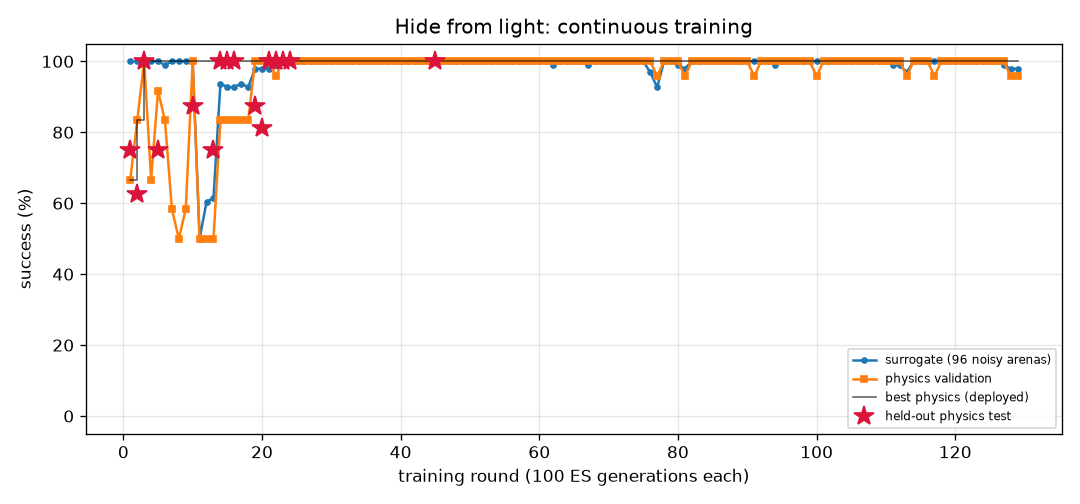
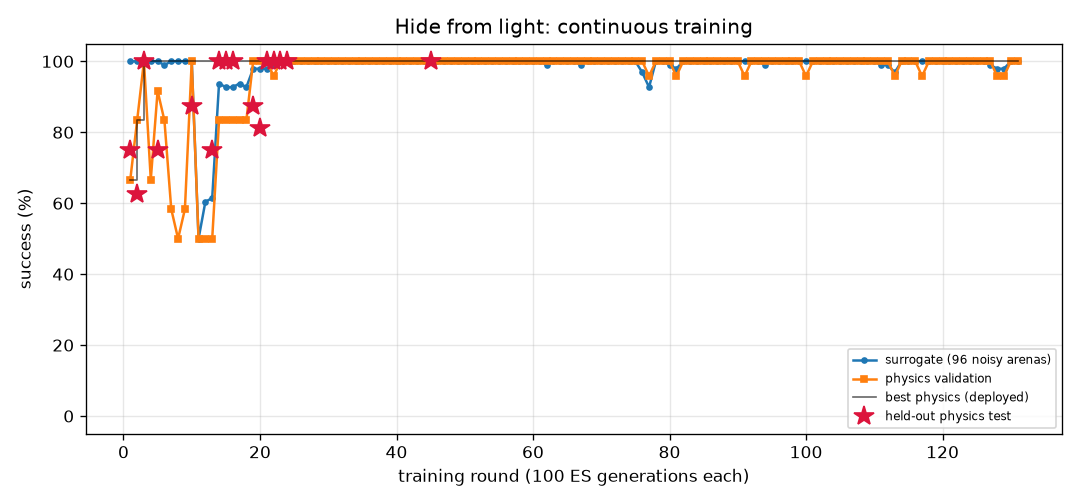
FlyLab: continuous training progress
- walk_forward: optimal, physics val 100% of 24, round 63
- turn: optimal, physics val 100% of 24, round 234
- goto: optimal, physics val 100% of 24, round 61
- odor_seek: optimal, physics val 100% of 24, round 77
- odor_avoid: optimal, physics val 100% of 24, round 336
- light_seek: optimal, physics val 100% of 24, round 241
- light_avoid: optimal, physics val 100% of 24, round 131

diff --git a/projects/09_flylab/training/odor_avoid/REPORT.md b/projects/09_flylab/training/odor_avoid/REPORT.md
@@ -1,14 +1,14 @@
 # Escape a bad smell (`odor_avoid`) — training report
 
-*Auto-generated by `train_brains.py`, last updated 2026-10-07T20:49:22.*
+*Auto-generated by `train_brains.py`, last updated 2026-10-08T08:55:30.*
 
 ![curve](curve.png)
 
 | | |
 |---|---|
-| rounds | 334 |
-| ES generations | 33400 |
-| physics runs | 5226 |
+| rounds | 336 |
+| ES generations | 33600 |
+| physics runs | 5274 |
 | status | **optimal** |
 | best brain | round 288: physics validation **100%** on 24 arenas, surrogate 98% |
 | held-out physics test | **100%** on 32 unseen arenas (95% CI 89%-100%) (errors: [61.2, 57.1, 61.4, 61.0, 13.5, 61.1, 61.1, 60.7, 60.0, 56.9, 60.8, 56.8, 60.8, 60.0, 58.7, 59.7, 60.7, 54.4, 60.9, 54.7, 61.1, 60.5, 57.7, 58.7, 59.8, 55.9, 55.7, 45.8, 55.9, 58.2, 59.2, 28.5]) |
@@ -17,8 +17,6 @@ Physics error per arena: mm gained away from source (> 6 without first approachi
 
 | round | level | gens | sigma | surrogate | physics val | val errors | test | note |
 |---:|---:|---:|---:|---:|---:|---|---:|---|
-| 295 | 3 | 29500 | 0.027 | 95% | 100% | [62.0, 60.2, 56.3, 59.3, 55.5, 59.1, 62.0, 57.4, 61.6, 42.9, 12.2, 61.1, 52.3, 55.5, 46.3, 60.4, 61.0, 48.1, 51.6, 59.9, 60.7, 45.5, 57.0, 60.3] |  |  |
-| 296 | 3 | 29600 | 0.027 | 98% | 92% | [60.7, 59.0, 56.9, 58.8, 61.5, 60.5, 60.9, 41.2, 61.1, 31.8, 61.0, 60.7, 50.2, 57.3, 44.6, 60.5, 60.8, 58.8, 54.1, 58.9, 60.6, 60.8, 58.9, 41.0] |  | restart from best |
 | 297 | 3 | 29700 | 0.025 | 96% | 100% | [62.3, 58.6, 55.8, 60.8, 61.7, 61.9, 60.6, 57.4, 61.1, 61.7, 61.5, 62.0, 53.0, 55.5, 40.8, 60.7, 62.2, 61.6, 54.8, 57.1, 61.9, 61.7, 59.4, 60.5] |  |  |
 | 298 | 3 | 29800 | 0.026 | 97% | 96% | [62.7, 58.8, 58.2, 57.9, 61.1, 62.0, 60.8, 27.5, 60.5, 57.7, 60.9, 60.3, 53.4, 58.1, 37.1, 60.1, 60.2, 60.9, 54.1, 55.0, 59.7, 60.1, 58.3, 46.1] |  |  |
 | 299 | 3 | 29900 | 0.026 | 97% | 100% | [62.8, 58.6, 58.3, 57.7, 60.9, 61.9, 59.8, 49.4, 60.0, 51.0, 60.9, 60.8, 52.6, 57.4, 42.5, 61.3, 59.8, 60.7, 53.2, 57.1, 60.2, 55.2, 58.1, 51.9] |  |  |
@@ -57,3 +55,5 @@ Physics error per arena: mm gained away from source (> 6 without first approachi
 | 332 | 3 | 33200 | 0.025 | 97% | 96% | [60.1, 59.4, 56.0, 58.7, 60.7, 49.9, 61.0, 3.4, 59.3, 13.0, 59.7, 61.3, 54.3, 55.6, 47.6, 60.7, 61.1, 27.0, 54.5, 59.0, 61.0, 21.8, 58.6, 12.0] |  |  |
 | 333 | 3 | 33300 | 0.026 | 98% | 96% | [59.1, 56.3, 55.3, 52.1, 35.5, 45.6, 57.3, 23.9, 57.7, 23.3, 3.5, 59.2, 48.0, 54.0, 28.8, 39.1, 59.3, 42.1, 48.9, 55.9, 59.1, 31.9, 56.1, 55.5] |  |  |
 | 334 | 3 | 33400 | 0.025 | 99% | 100% | [60.9, 60.3, 56.4, 59.9, 61.8, 60.1, 61.6, 41.4, 61.2, 46.9, 60.2, 61.3, 53.6, 56.3, 47.8, 61.4, 61.7, 60.9, 54.7, 59.6, 61.8, 60.7, 59.2, 59.0] |  |  |
+| 335 | 3 | 33500 | 0.025 | 96% | 100% | [60.3, 58.3, 55.8, 58.4, 61.2, 59.9, 61.6, 25.8, 61.2, 45.0, 34.8, 60.8, 49.6, 55.3, 17.2, 60.8, 61.3, 58.2, 53.2, 59.2, 61.2, 58.7, 60.0, 49.5] |  | restart from best |
+| 336 | 3 | 33600 | 0.025 | 94% | 92% | [61.3, 57.4, 56.1, 59.1, 57.6, 60.5, 61.7, 59.6, 61.7, 59.5, 36.1, 61.2, 38.0, 53.1, 19.3, 60.8, 60.8, 58.4, 49.8, 59.9, 61.0, 60.6, 59.5, 60.8] |  |  |

diff --git a/projects/09_flylab/training/light_avoid/REPORT.md b/projects/09_flylab/training/light_avoid/REPORT.md
@@ -1,14 +1,14 @@
 # Hide from light (`light_avoid`) — training report
 
-*Auto-generated by `train_brains.py`, last updated 2026-10-07T21:49:26.*
+*Auto-generated by `train_brains.py`, last updated 2026-10-08T09:08:33.*
 
 ![curve](curve.png)
 
 | | |
 |---|---|
-| rounds | 129 |
-| ES generations | 12900 |
-| physics runs | 3336 |
+| rounds | 131 |
+| ES generations | 13100 |
+| physics runs | 3384 |
 | status | **optimal** |
 | best brain | round 45: physics validation **100%** on 24 arenas, surrogate 100% |
 | held-out physics test | **100%** on 32 unseen arenas (95% CI 89%-100%) (errors: [14.4, 28.9, 31.6, 32.2, 31.9, 13.9, 14.5, 34.1, 33.7, 13.3, 14.0, 31.3, 31.1, 13.1, 32.4, 33.8, 32.9, 32.2, 31.7, 32.0, 29.0, 12.3, 31.9, 33.2, 14.2, 13.7, 33.6, 32.5, 33.2, 13.2, 28.1, 33.7]) |
@@ -17,8 +17,6 @@ Physics error per arena: mm gained away from source (> 6 without first approachi
 
 | round | level | gens | sigma | surrogate | physics val | val errors | test | note |
 |---:|---:|---:|---:|---:|---:|---|---:|---|
-| 90 | 3 | 9000 | 0.024 | 100% | 100% | [42.1, 43.3, 43.4, 41.7, 39.6, 41.5, 43.2, 14.5, 39.6, 13.2, 42.9, 39.3, 14.4, 44.0, 43.4, 42.0, 14.2, 40.8, 43.1, 14.4, 43.0, 43.0, 42.9, 38.2] |  |  |
-| 91 | 3 | 9100 | 0.024 | 100% | 96% | [48.8, 48.7, 49.2, 48.8, 43.7, 48.7, 49.6, 14.5, 37.0, 13.5, 47.3, 43.7, 14.4, 44.9, 49.1, 48.0, 14.2, 45.9, 48.3, 14.4, 48.7, 47.9, 49.6, 42.2] |  |  |
 | 92 | 3 | 9200 | 0.024 | 100% | 100% | [42.9, 43.2, 43.6, 43.2, 38.5, 42.4, 43.8, 14.5, 39.7, 13.5, 43.4, 37.9, 14.4, 41.9, 43.4, 43.6, 14.2, 39.2, 43.1, 14.4, 44.1, 43.6, 43.0, 37.0] |  |  |
 | 93 | 3 | 9300 | 0.024 | 100% | 100% | [45.5, 46.6, 46.8, 45.6, 43.8, 45.3, 46.6, 14.5, 39.1, 13.2, 44.6, 42.3, 14.4, 45.4, 46.7, 45.0, 14.2, 44.1, 46.1, 14.4, 45.0, 45.7, 46.8, 42.4] |  | restart from best |
 | 94 | 3 | 9400 | 0.024 | 99% | 100% | [37.1, 37.9, 37.6, 38.9, 40.4, 36.4, 35.8, 14.5, 11.3, 13.5, 39.0, 40.4, 14.4, 39.0, 37.6, 38.2, 14.2, 40.2, 38.1, 14.4, 35.8, 39.5, 35.4, 40.5] |  |  |
@@ -57,3 +55,5 @@ Physics error per arena: mm gained away from source (> 6 without first approachi
 | 127 | 3 | 12700 | 0.024 | 99% | 100% | [34.5, 36.3, 36.4, 35.9, 31.3, 35.3, 37.1, 14.5, 13.0, 13.4, 10.1, 31.0, 14.4, 27.8, 36.3, 33.8, 14.2, 32.4, 35.7, 14.4, 31.5, 11.1, 35.9, 29.2] |  |  |
 | 128 | 3 | 12800 | 0.025 | 98% | 96% | [43.0, 43.8, 43.6, 42.6, 42.2, 42.5, 42.7, 14.5, 13.0, 13.4, 10.2, 42.0, 14.4, 7.9, 43.7, 42.7, 14.2, 42.8, 44.1, 14.4, 43.8, 11.3, 42.3, 41.2] |  |  |
 | 129 | 3 | 12900 | 0.025 | 98% | 96% | [39.7, 42.8, 42.9, 39.1, 39.0, 41.9, 42.9, 14.5, 13.0, 13.4, 10.2, 38.7, 14.4, 7.9, 43.0, 40.3, 14.2, 40.2, 42.8, 14.4, 40.6, 11.3, 42.2, 37.6] |  | restart from best |
+| 130 | 3 | 13000 | 0.024 | 100% | 100% | [45.4, 46.5, 45.8, 46.2, 49.6, 45.9, 43.8, 14.5, 43.7, 13.3, 48.7, 49.7, 14.4, 48.7, 46.2, 45.4, 14.2, 49.5, 46.9, 14.4, 43.1, 49.3, 44.8, 49.5] |  |  |
+| 131 | 3 | 13100 | 0.024 | 100% | 100% | [44.0, 45.0, 45.6, 44.5, 42.1, 44.4, 46.4, 14.5, 33.5, 13.3, 42.4, 41.6, 14.3, 40.9, 45.5, 43.7, 14.2, 42.4, 45.5, 14.4, 40.2, 42.8, 45.3, 40.8] |  |  |

diff --git a/projects/09_flylab/training/TRAINING.md b/projects/09_flylab/training/TRAINING.md
@@ -1,6 +1,6 @@
 # FlyLab brains — continuous training log
 
-*Auto-generated by `train_brains.py`, last updated 2026-10-08T08:34:22.*
+*Auto-generated by `train_brains.py`, last updated 2026-10-08T09:08:33.*
 
 Every skill has its own brain and its own training process: surrogate ES rounds, physics validation in MuJoCo, keep-the-best selection, and a held-out physics test that is never used for selection. See each skill's report for its full round-by-round history. Mastery is progressive: passing a level (100% physics validation, >=95% surrogate) doubles the validation and test arena sets; a brain is **optimal** once it holds up at level 3 (>=95% of 24 validation arenas) AND scores >=90% on the 32 held-out test arenas. Test columns show 95% Wilson confidence intervals.
 
@@ -10,6 +10,6 @@ Every skill has its own brain and its own training process: surrogate ES rounds,
 | [Turn in place](turn/REPORT.md) | 234 | 23400 | 5862 | 100% | 100% of 24 | 97% of 32 (CI 84-99%) | **optimal** |
 | [Go to a location](goto/REPORT.md) | 61 | 6100 | 1254 | 100% | 100% of 24 | 100% of 32 (CI 89-100%) | **optimal** |
 | [Find food by smell](odor_seek/REPORT.md) | 77 | 7700 | 1118 | 100% | 100% of 24 | 100% of 32 (CI 89-100%) | **optimal** |
-| [Escape a bad smell](odor_avoid/REPORT.md) | 334 | 33400 | 5226 | 98% | 100% of 24 | 100% of 32 (CI 89-100%) | **optimal** |
+| [Escape a bad smell](odor_avoid/REPORT.md) | 336 | 33600 | 5274 | 98% | 100% of 24 | 100% of 32 (CI 89-100%) | **optimal** |
 | [Walk toward light](light_seek/REPORT.md) | 241 | 24100 | 2536 | 100% | 100% of 24 | 100% of 32 (CI 89-100%) | **optimal** |
-| [Hide from light](light_avoid/REPORT.md) | 129 | 12900 | 3336 | 100% | 100% of 24 | 100% of 32 (CI 89-100%) | **optimal** |
+| [Hide from light](light_avoid/REPORT.md) | 131 | 13100 | 3384 | 100% | 100% of 24 | 100% of 32 (CI 89-100%) | **optimal** |
